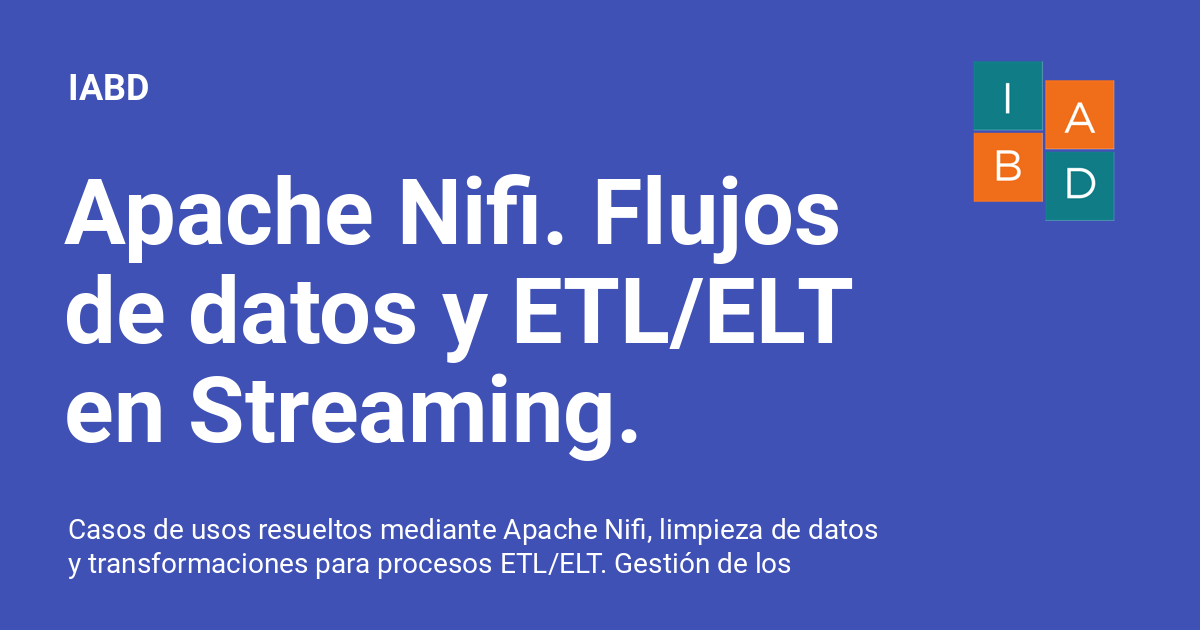
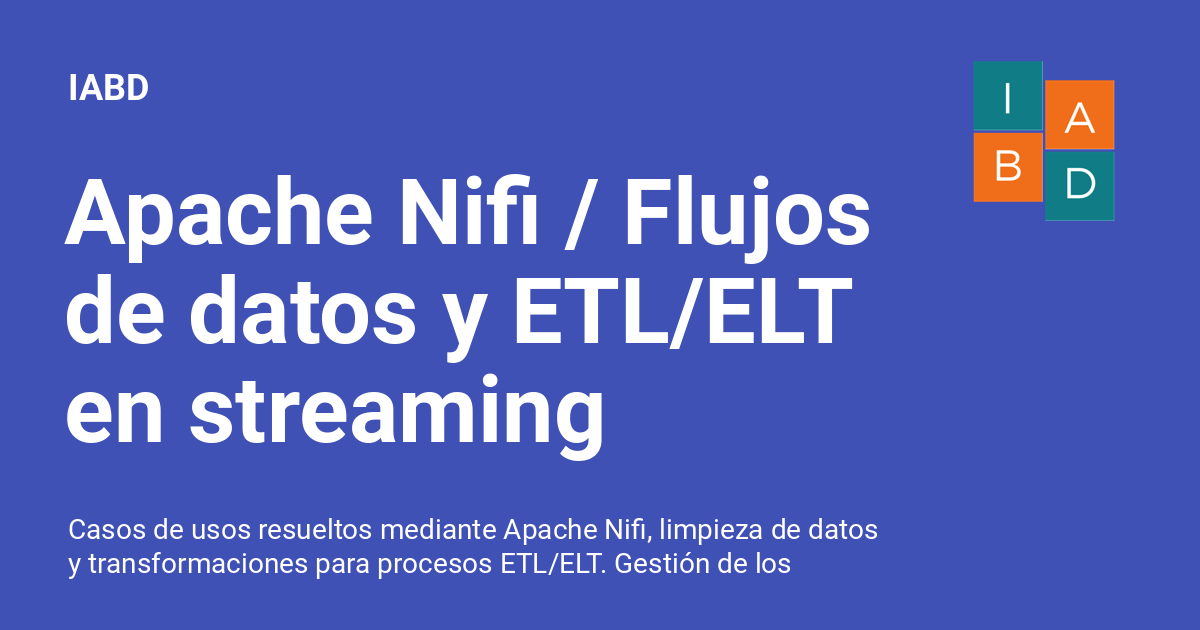
Deployed ef8bf9b with MkDocs version: 1.4.2

Changed region(s): [[0.1542, 0.573, 0.5242, 0.754], [0.4317, 0.2714, 0.74, 0.4222]]

diff --git a/dataflow/04nifi1.html b/dataflow/04nifi1.html
@@ -23,7 +23,7 @@
     
     
       
-        <title>Apache Nifi. Flujos de datos y ETL/ELT en Streaming. - IABD</title>
+        <title>Apache Nifi / Flujos de datos y ETL/ELT en streaming - IABD</title>
       
     
     
@@ -69,7 +69,7 @@
       
         <meta  property="og:type"  content="website" >
       
-        <meta  property="og:title"  content="Apache Nifi. Flujos de datos y ETL/ELT en Streaming. - IABD" >
+        <meta  property="og:title"  content="Apache Nifi / Flujos de datos y ETL/ELT en streaming - IABD" >
       
         <meta  property="og:description"  content="Casos de usos resueltos mediante Apache Nifi, limpieza de datos y transformaciones para procesos ETL/ELT. Gestión de los atributos de un flowfile, uso de procesadores y conectores. Apuntes y ejercicios." >
       
@@ -85,7 +85,7 @@
       
         <meta  name="twitter:card"  content="summary_large_image" >
       
-        <meta  name="twitter:title"  content="Apache Nifi. Flujos de datos y ETL/ELT en Streaming. - IABD" >
+        <meta  name="twitter:title"  content="Apache Nifi / Flujos de datos y ETL/ELT en streaming - IABD" >
       
         <meta  name="twitter:description"  content="Casos de usos resueltos mediante Apache Nifi, limpieza de datos y transformaciones para procesos ETL/ELT. Gestión de los atributos de un flowfile, uso de procesadores y conectores. Apuntes y ejercicios." >
       
@@ -147,7 +147,7 @@
         <div class="md-header__topic" data-md-component="header-topic">
           <span class="md-ellipsis">
             
-              Apache Nifi. Flujos de datos y ETL/ELT en Streaming.
+              Apache Nifi / Flujos de datos y ETL/ELT en streaming
             
           </span>
         </div>
